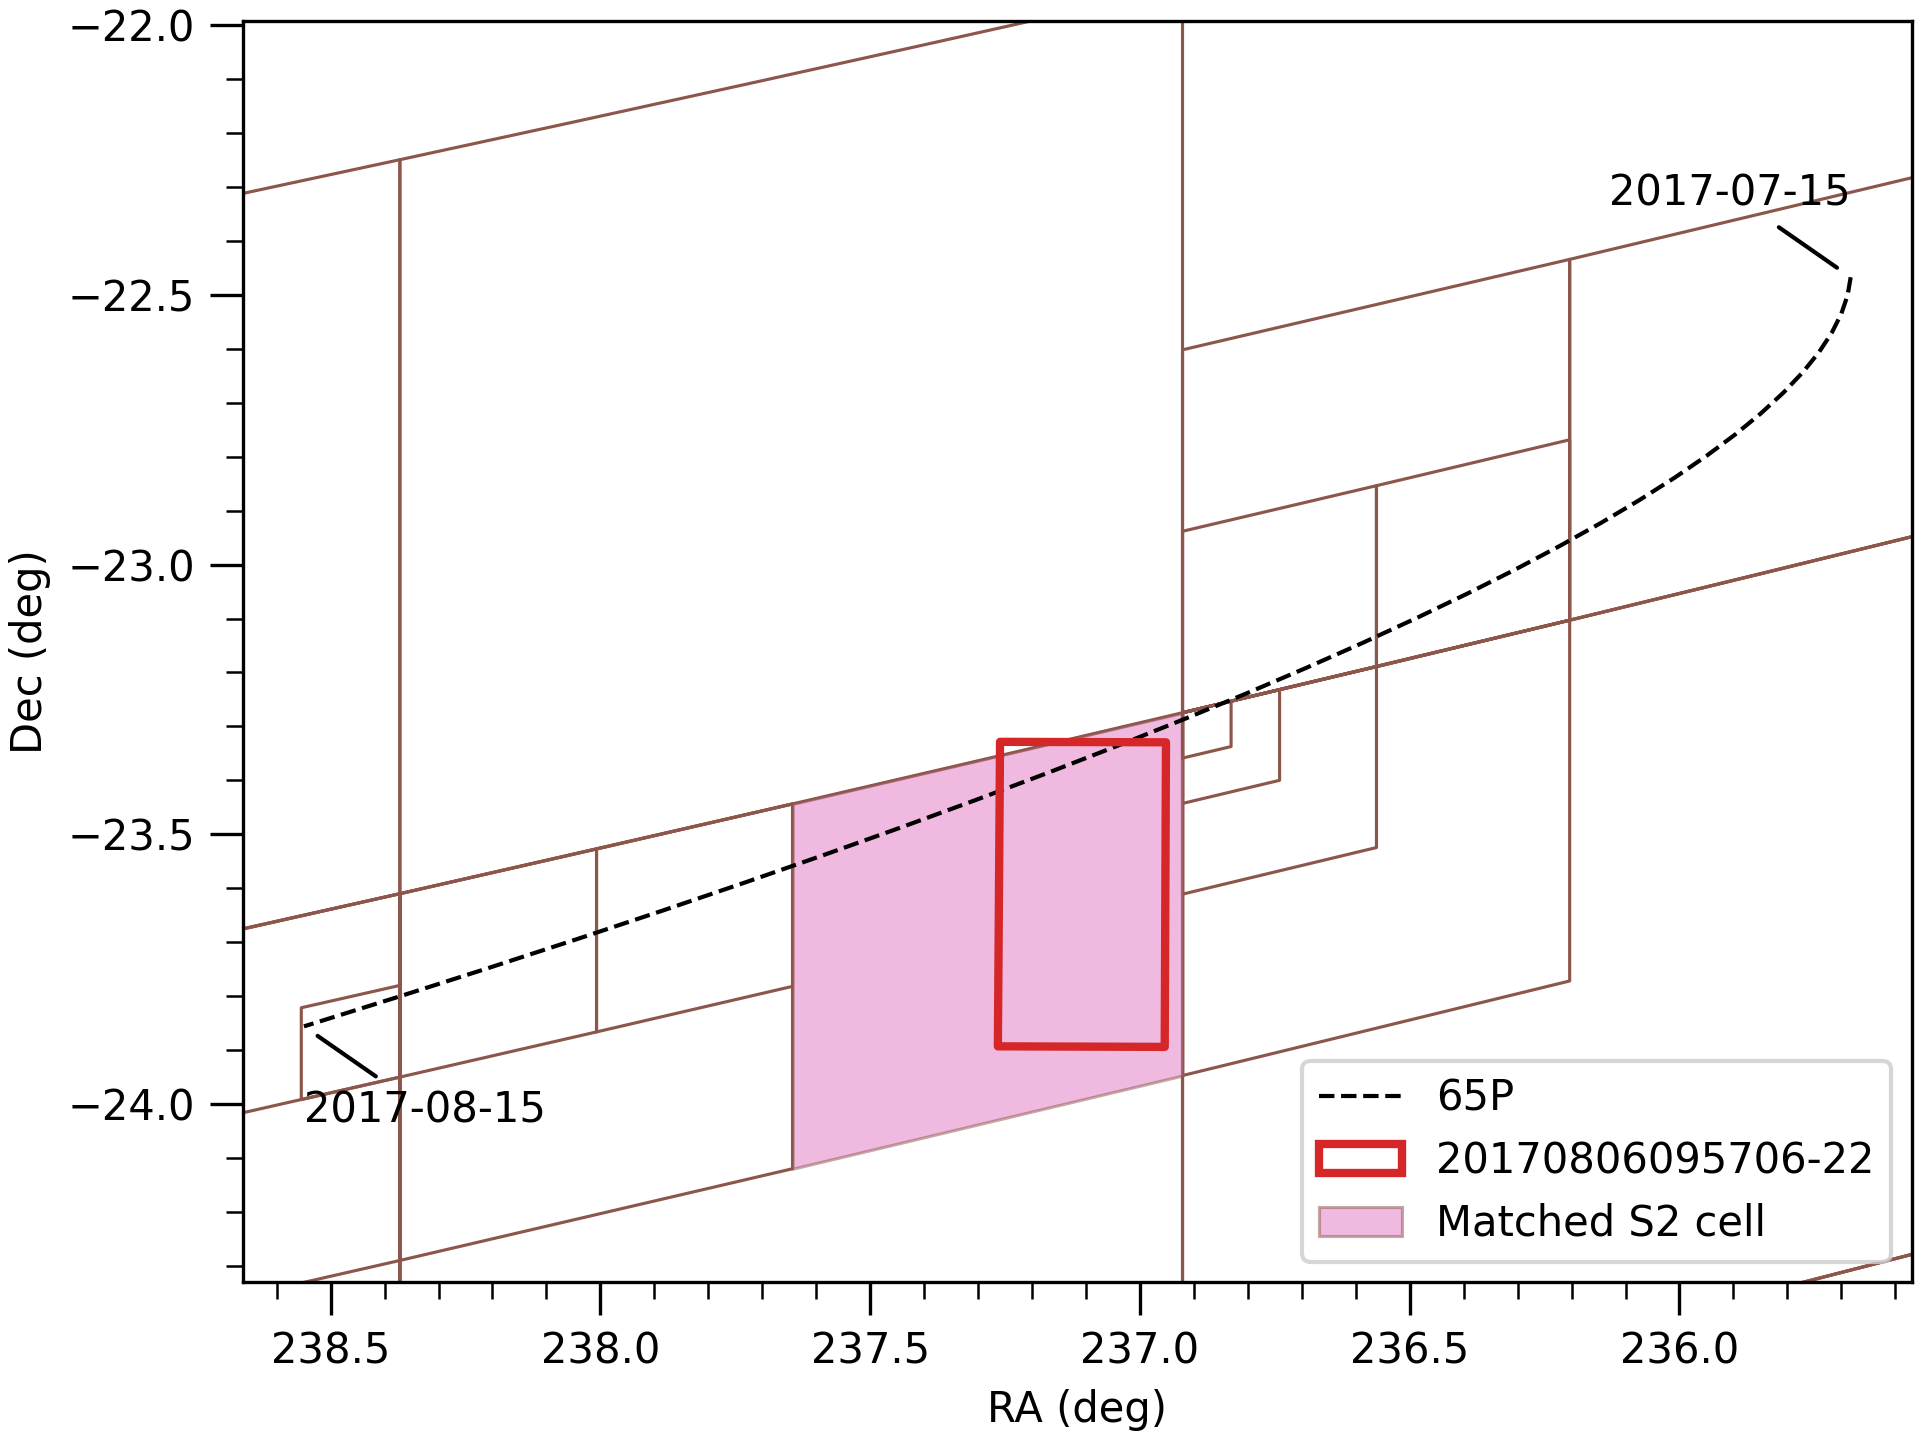
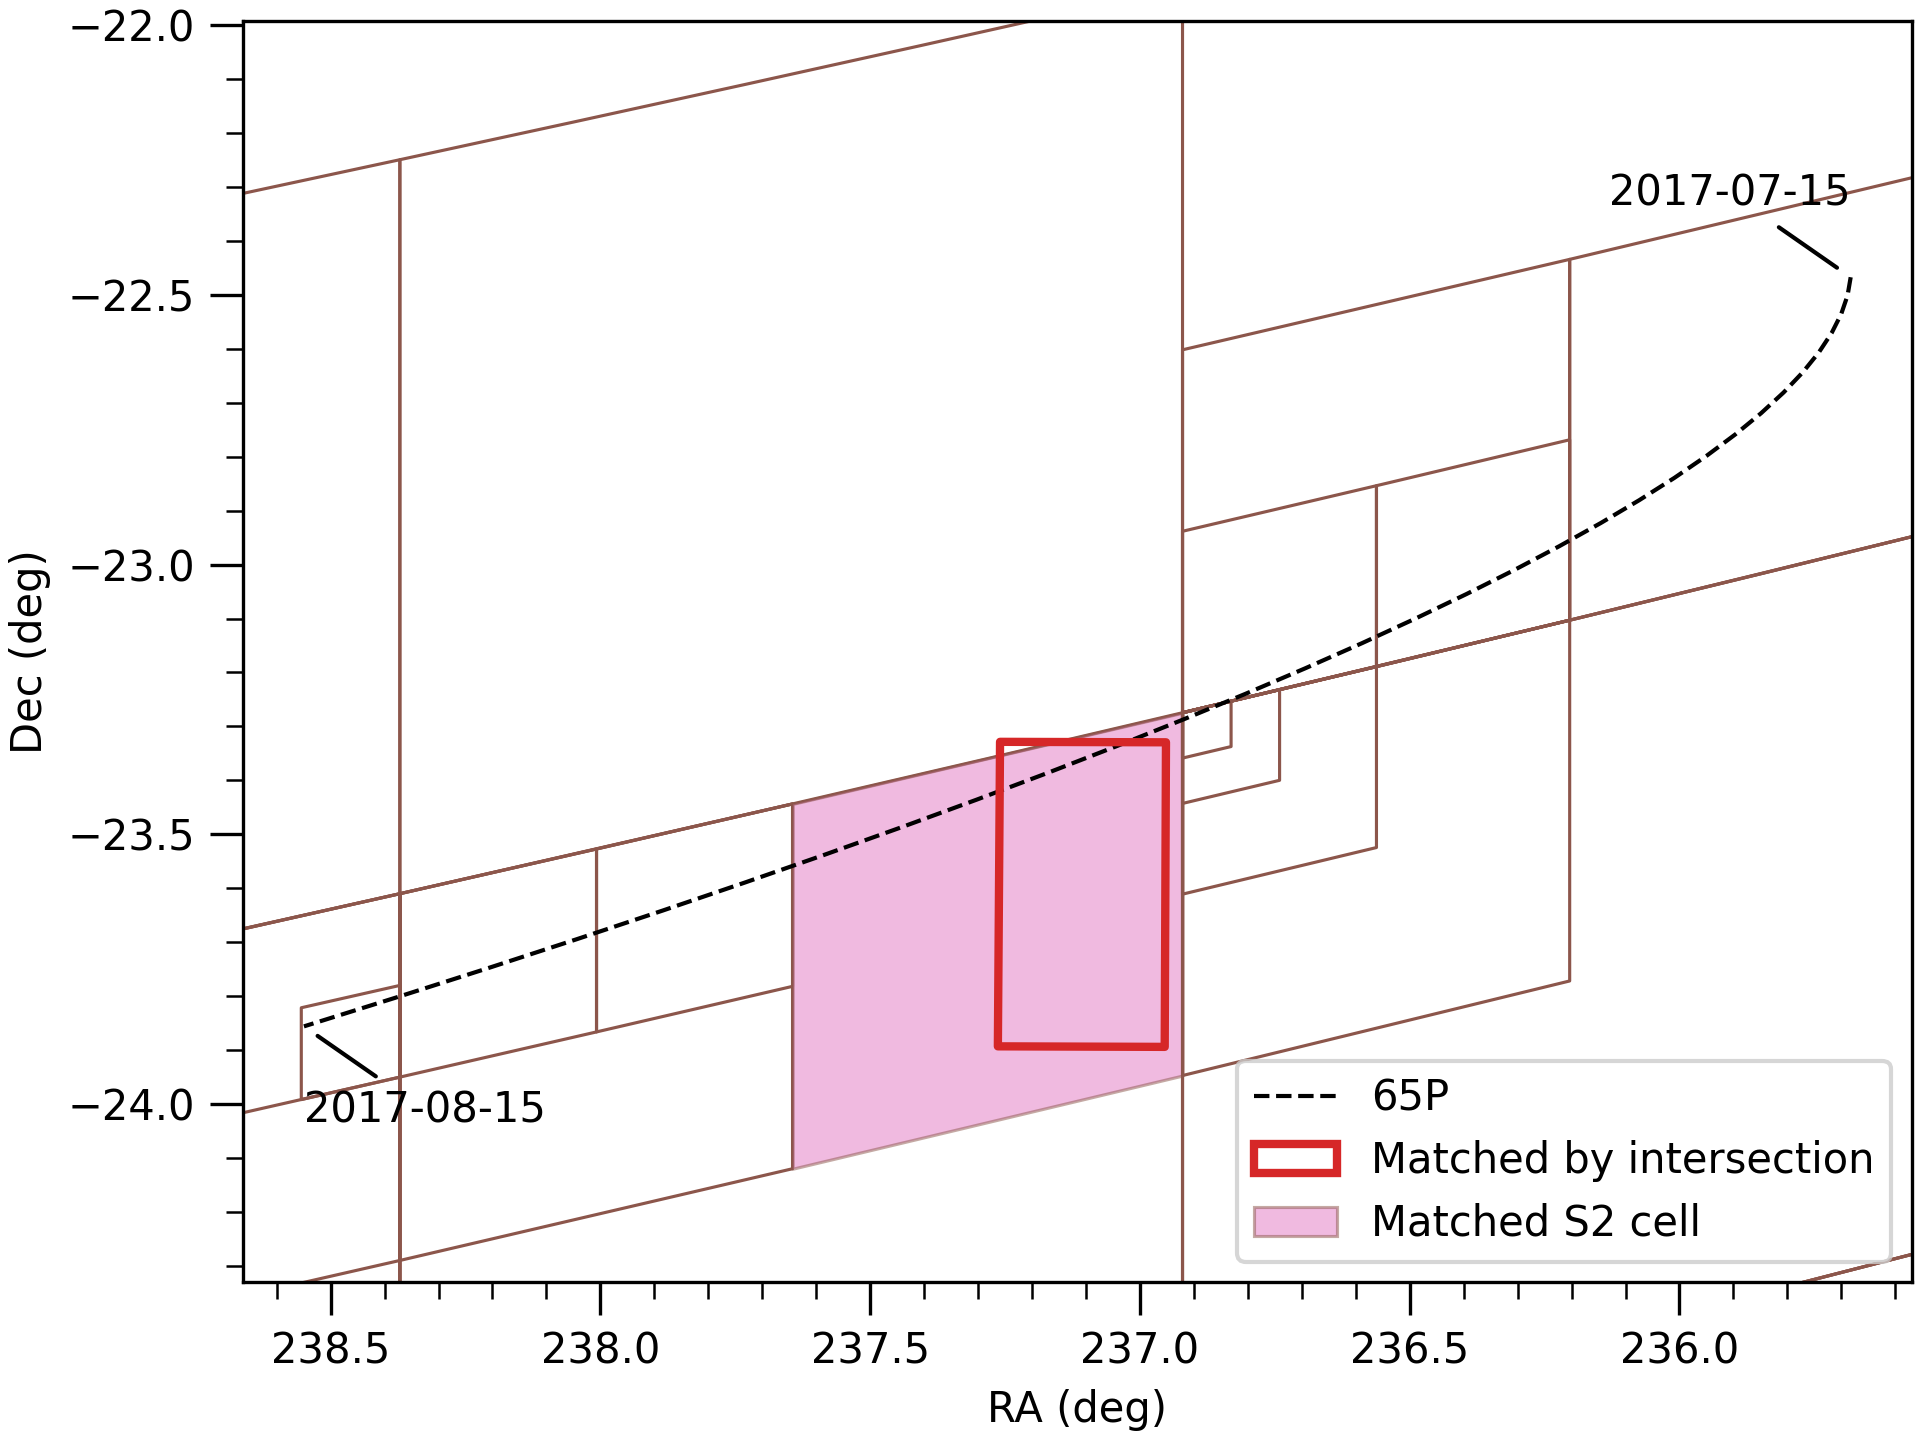
Fix annotation.

Changed region(s): [[0.625, 0.75, 0.9688, 0.875]]

diff --git a/figures/query-cells.py b/figures/query-cells.py
@@ -268,17 +268,19 @@ handles = []
 handles.extend(ax.plot(ra, dec, label=target, **ephemeris_style))
 
 for obs in obs_by_ephemeris:
-    poly = obs_to_poly(obs, label=obs.product_id,
+    poly = obs_to_poly(obs, label='Matched by intersection',
                        facecolor='none', **matched_obs_style)
     ax.add_artist(poly)
     handles.append(poly)
 
 obs_terms = sum([obs.spatial_terms for obs in obs_by_ephemeris], [])
+matched = 0
 for term, cell in query_cells.items():
     if term in obs_terms:
         fc = 'tab:pink'
         alpha = 0.5
         label = 'Matched S2 cell'
+        matched += 1
     else:
         fc = 'none'
         alpha = 1
@@ -288,7 +290,7 @@ for term, cell in query_cells.items():
                         label=label)
     ax.add_artist(poly)
 
-    if label is not None:
+    if label is not None and matched == 1:
         handles.append(poly)
 
 plt.setp(ax, xlim=ax.get_xlim()[::-1], xlabel='RA (deg)', ylabel='Dec (deg)',
